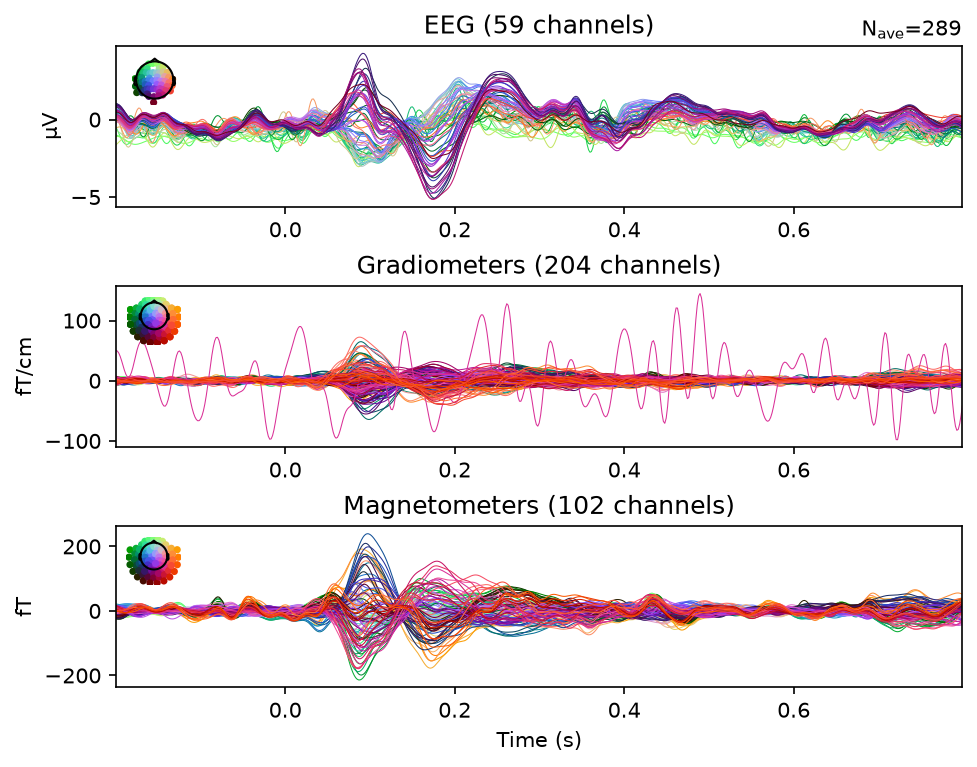
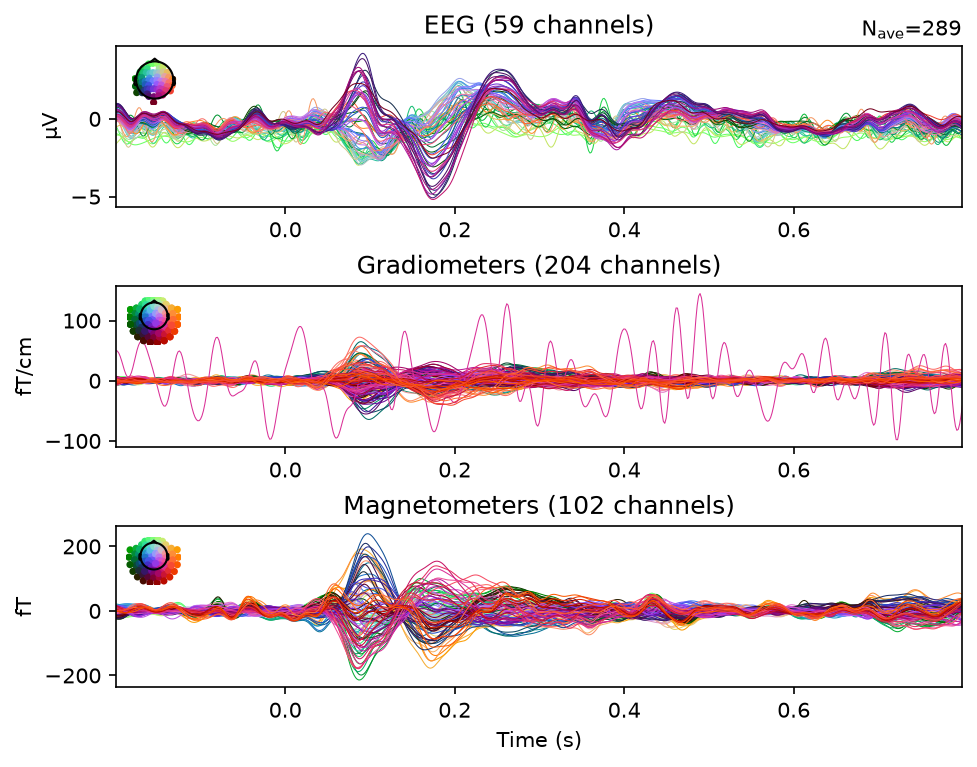
Regenerate sub-01 figures and README accuracy from a --force re-run at ica.n_components 0.99
The committed figures and the README accuracy came from a run made before
ica.n_components changed from 20 to 0.99. A full --force re-run on the MNE
sample recording (bad channel EEG 053) now gives 320 events, 31 dropped,
289 kept, 2 EOG components removed and 5-fold LDA accuracy 31.86% (+/- 5.12%),
so the README accuracy changes from 28.05% (+/- 4.13%); the other README
numbers are unchanged. The ERP, PSD, TFR and ITC figures are replaced; the
topomap came out byte-identical. The TFR figure shows the same channel
(MEG 0113) with a colour scale now set by that channel alone.

Changed region(s): [[0.0921, 0.09, 0.9826, 0.2699]]

diff --git a/README.md b/README.md
@@ -206,7 +206,7 @@ the power result alone makes.
 
 ### 6. Classification
 
-Cross-validated (5-fold) LDA accuracy on this run is **28.05% (± 4.13%)** — expected to sit
+Cross-validated (5-fold) LDA accuracy on this run is **31.86% (± 5.12%)** — expected to sit
 near chance on this particular dataset for the reason explained just below, not a sign the
 classifier is broken. Read on before judging the number. It uses mu/beta
 (8–30 Hz) band power per channel as features, decoding all six of the sample dataset's event
